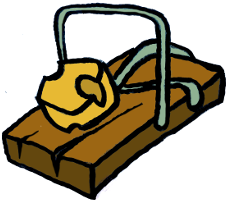
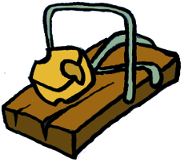
added trap (only sprite for now)

diff --git a/Resit Mouse Game/Resit Mouse Game/Pickup.cpp b/Resit Mouse Game/Resit Mouse Game/Pickup.cpp
@@ -1,7 +1,7 @@
 #include "stdafx.h"
 #include "Pickup.h"
 
-Pickup::Pickup(int type)
+Pickup::Pickup(int type) //setting up 3 different types for the 3 different pickups: cheese poison and trap
 {
 	m_Type = type;
 	if (m_Type == 1)
@@ -10,18 +10,24 @@ Pickup::Pickup(int type)
 		m_Sprite.setTexture(m_Texture);
 		m_Value = GROTH_RATE;
 	}
-	else
+	else if (m_Type == 2)
 	{
 		m_Texture.loadFromFile("graphics/poison.png");
 		m_Sprite.setTexture(m_Texture);
 		m_Value = SHRINK_RATE;
+	}
+	else
+	{
+		m_Texture.loadFromFile("graphics/trap.png");
+		m_Sprite.setTexture(m_Texture);
+		m_Value = 0;
 	}
 	m_Sprite.setOrigin(90, 90);
 
 	m_SecondsLeft = START_COUNTDOWN;
 	m_SecondsToWait = START_WAIT_TIME;
 }
-void Pickup::setArena(IntRect arena)
+void Pickup::setArena(IntRect arena) //telling the class the borger within which it can spawn (doesn`t seem to work tho)
 {
 	m_Arena.left = arena.left + 180;
 	m_Arena.width = arena.width - 180;
@@ -30,11 +36,9 @@ void Pickup::setArena(IntRect arena)
 
 	spawn();
 }
-void Pickup::spawn()
+void Pickup::spawn() //random number generator uses info from the previous function for spawning
 {
-	srand((int)time(0) / m_Type);
 	int x = (rand() % m_Arena.width);
-	srand((int)time(0) * m_Type);
 	int y = (rand() % m_Arena.height);
 	m_SecondsSinceSpawn = 0;
 	m_Spawned = true;

diff --git a/Resit Mouse Game/Resit Mouse Game/Player.cpp b/Resit Mouse Game/Resit Mouse Game/Player.cpp
@@ -108,22 +108,6 @@ void Player::update(float elapsedTime, Vector2i mousePosition)
 	m_Position.x += speed * cos(radian);
 	m_Position.y += speed * sin(radian);
 
-	/*if (m_UpPressed)
-	{
-		m_Position.y -= m_Speed * elapsedTime;
-	}
-	if (m_DownPressed)
-	{
-		m_Position.y += m_Speed * elapsedTime;
-	}
-	if (m_RightPressed)
-	{
-		m_Position.x += m_Speed * elapsedTime;
-	}
-	if (m_LeftPressed)
-	{
-		m_Position.x -= m_Speed * elapsedTime;
-	}*/
 
 	m_Sprite.setRotation(m_Angle - 90);
 
@@ -146,9 +130,6 @@ void Player::update(float elapsedTime, Vector2i mousePosition)
 		m_Position.y = m_Arena.top + m_TileSize;
 	}
 
-	//float angle = (atan2(mousePosition.y - m_Resolution.y / 2, mousePosition.x - m_Resolution.x / 2) * 180) / 3.141;
-
-	//m_Sprite.setRotation(m_Angle);
 }
 
 

diff --git a/Resit Mouse Game/Resit Mouse Game/ResitMouseGame.cpp b/Resit Mouse Game/Resit Mouse Game/ResitMouseGame.cpp
@@ -38,6 +38,7 @@ int main()
 
 	Pickup cheesePickup(1);
 	Pickup poisonPickup(2);
+	Pickup trapPickup(3);
 	
 	while(window.isOpen()) //HERE COMES THE MAIN GAME LOOP
 	{
@@ -128,6 +129,7 @@ int main()
 
 				cheesePickup.setArena(arena);
 				poisonPickup.setArena(arena);
+				trapPickup.setArena(arena);
 
 				clock.restart();
 			}
@@ -155,6 +157,7 @@ int main()
 
 			cheesePickup.update(dtAsSeconds);
 			poisonPickup.update(dtAsSeconds);
+			trapPickup.update(dtAsSeconds);
 
 		} //updates end here
 		  
@@ -177,6 +180,10 @@ int main()
 			if (poisonPickup.isSpawned())
 			{
 				window.draw(poisonPickup.getSprite());
+			}
+			if (trapPickup.isSpawned())
+			{
+				window.draw(trapPickup.getSprite());
 			}
 
 		}

diff --git a/Resit Mouse Game/Resit Mouse Game/Pickup.h b/Resit Mouse Game/Resit Mouse Game/Pickup.h
@@ -8,7 +8,7 @@ class Pickup
 private :
 	const int GROTH_RATE = 50;
 	const int SHRINK_RATE = 50;
-	const int START_WAIT_TIME = 5;
+	const int START_WAIT_TIME = 0;
 	const int START_COUNTDOWN = 5;
 
 	Sprite m_Sprite;
